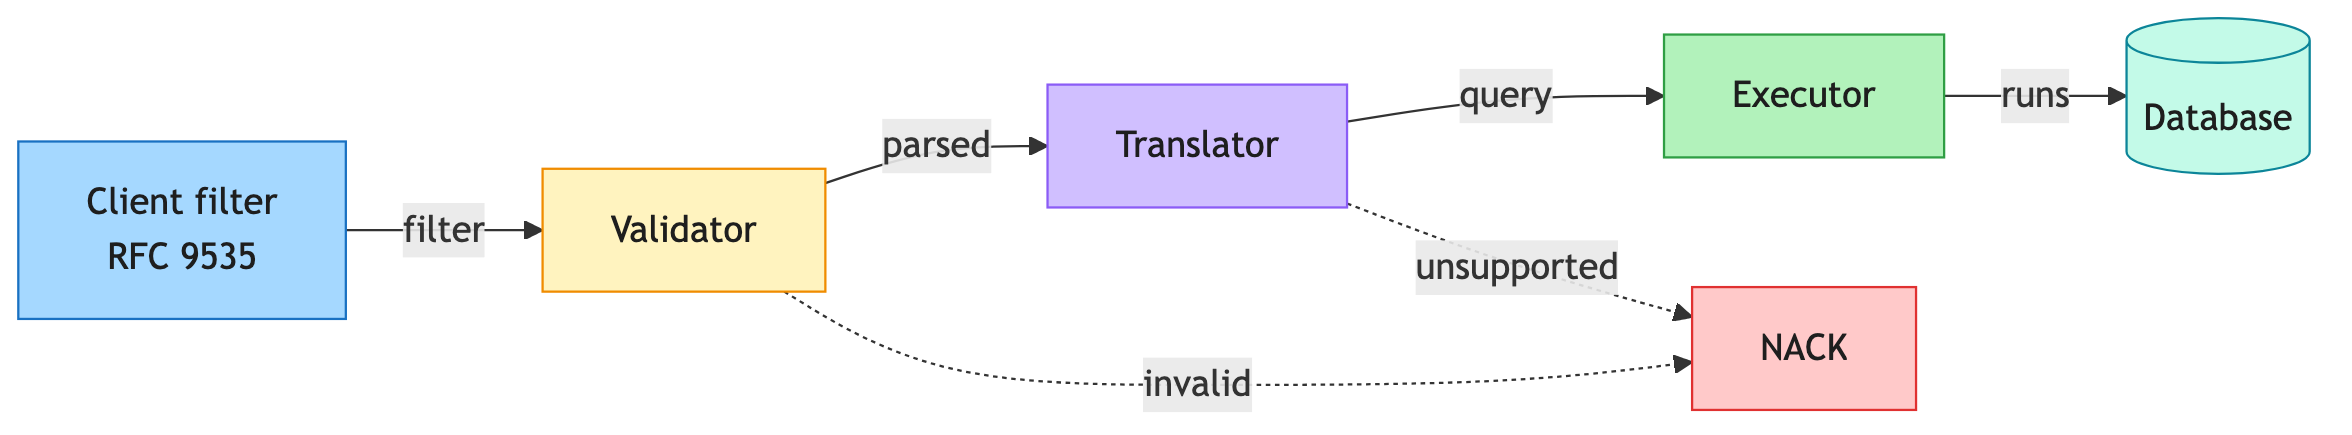
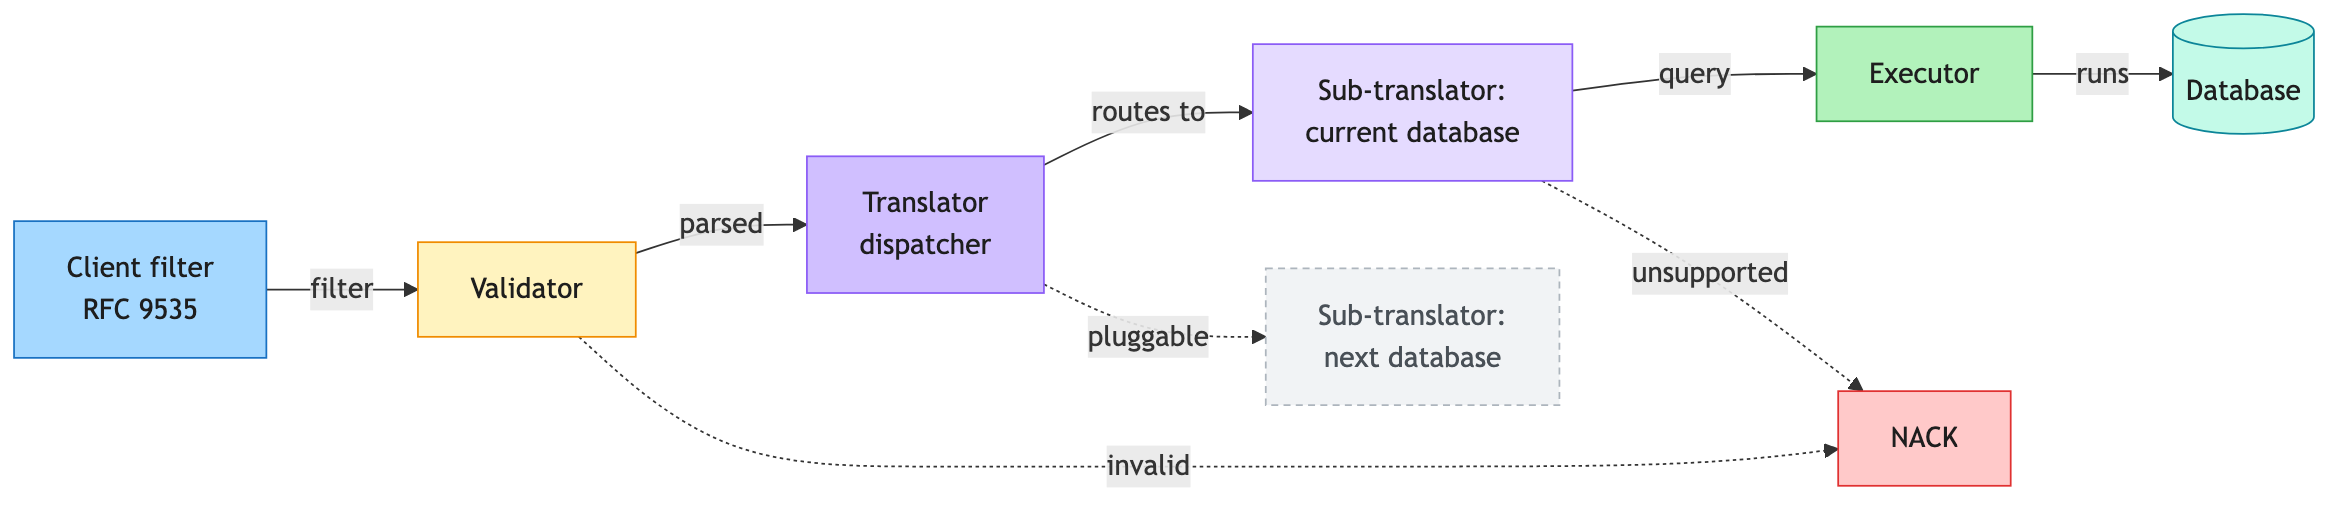
docs(discover): clarify Translator as a dispatcher over per-database sub-translators
Explain why Validator re-runs Translator/Executor checks synchronously
(ACK-now, process-later means there's no later chance to NACK), and
show the Translator as a dispatcher routing to a per-database
sub-translator rather than one monolithic block, in both the text and
the flow diagram.

diff --git a/docs/architecture/RFC9535_JSONPATH_TRANSLATION_DESIGN.md b/docs/architecture/RFC9535_JSONPATH_TRANSLATION_DESIGN.md
@@ -61,6 +61,11 @@ rejected with a NACK instead of moving forward. Each stage is explained below.
     itself, so this check and the Translator are the same piece of work.
   - Does the database actually accept the translated query? One last live check against the
     real database, to catch anything the first two checks missed.
+- **Why the Validator does this instead of just the Translator and Executor:** discover
+  requests are ACKed immediately and processed later, asynchronously. Once that async
+  processing starts, there's no way back to send a NACK. So the Validator has to run the
+  Translator's and Executor's checks early, as a dry run, to decide ACK or NACK before that
+  window closes. It's the same work, just done up front instead of later.
 - **What it produces:** if all three checks pass, the request is acknowledged (ACK) and
   queued. If any check fails, the request is rejected (NACK).
 - **What it's built with, and why:** the first check uses **ANTLR4**, a widely used parser
@@ -81,10 +86,12 @@ rejected with a NACK instead of moving forward. Each stage is explained below.
 - **Example:**
   - Input: `$.resources[?(@.category == 'BEVERAGES')]`
   - Output (today's target database): `$.resources ?(@.category == "BEVERAGES")`
-- **How it decides what to emit:** the translator is written to be pluggable per database.
-  It knows which database it's currently targeting, and emits that database's syntax for
-  each piece of the filter. Supporting a second database later means adding a second
-  translation path, not rewriting this one.
+- **How it decides what to emit:** the Translator isn't one block of logic that handles
+  every database. It's a thin dispatcher in front of one sub-translator per database, one
+  for each database it currently supports. The dispatcher looks at which database the
+  request needs to run on and hands the filter to that database's sub-translator, which
+  emits that database's syntax. Supporting a new database later means plugging in one new
+  sub-translator, not rewriting the existing ones.
 - **What it's built with, and why:** a search for an existing library that already does
   "read RFC 9535, output a query in another language" turned up nothing. Every RFC 9535
   library found only evaluates the filter in memory against JSON already loaded; it doesn't
